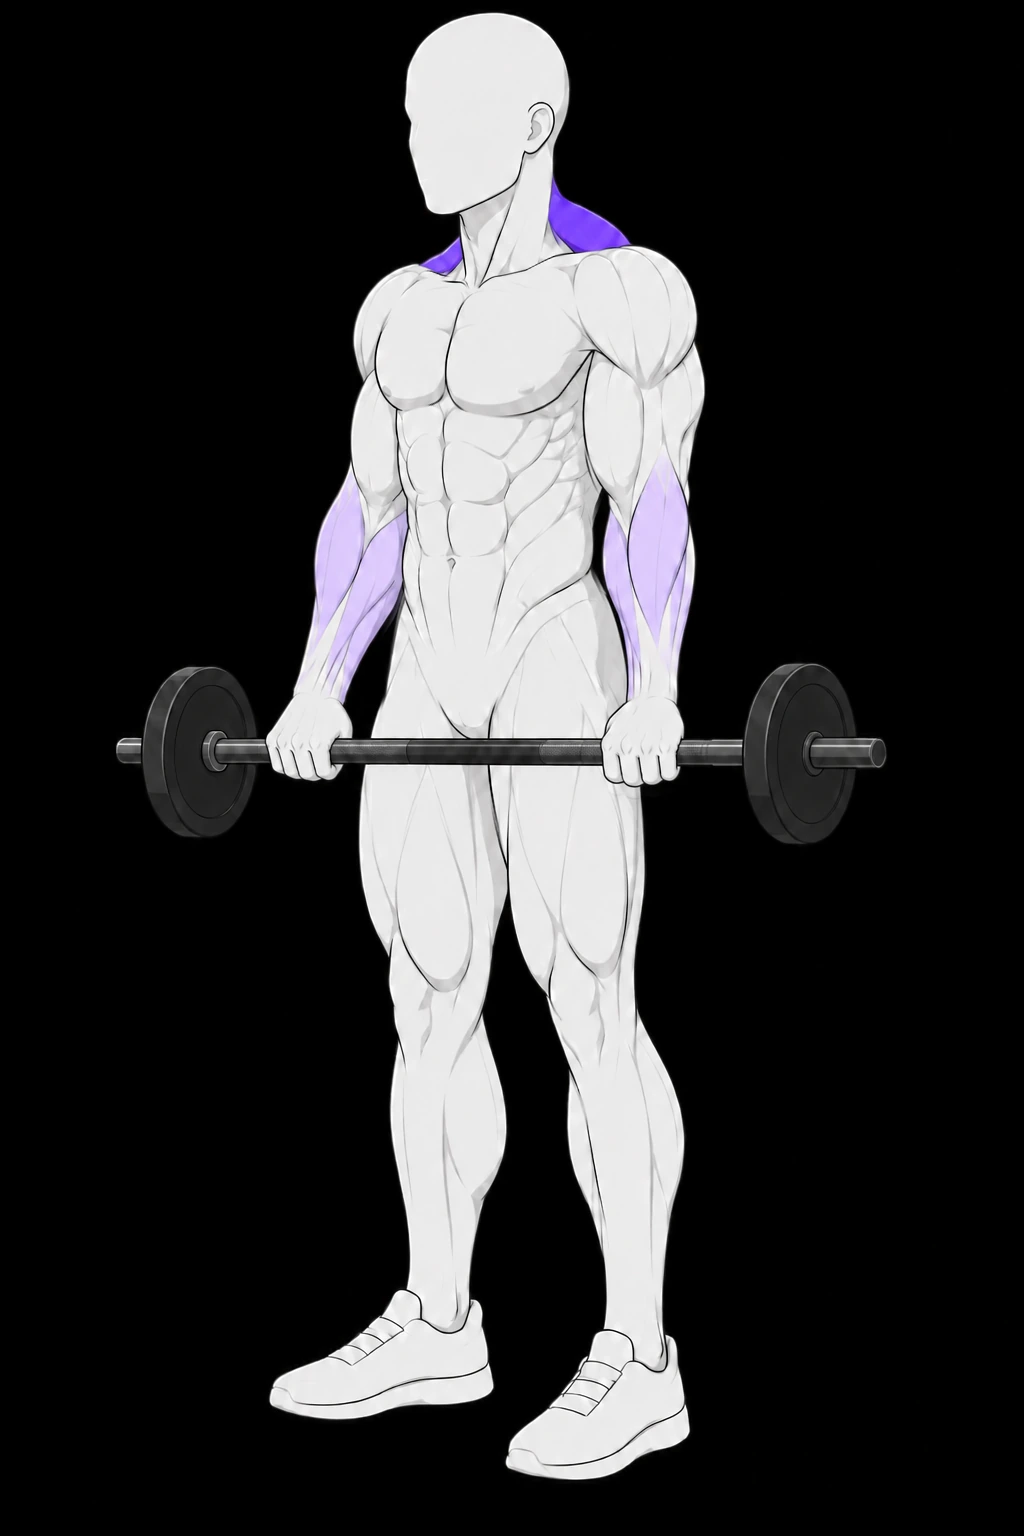
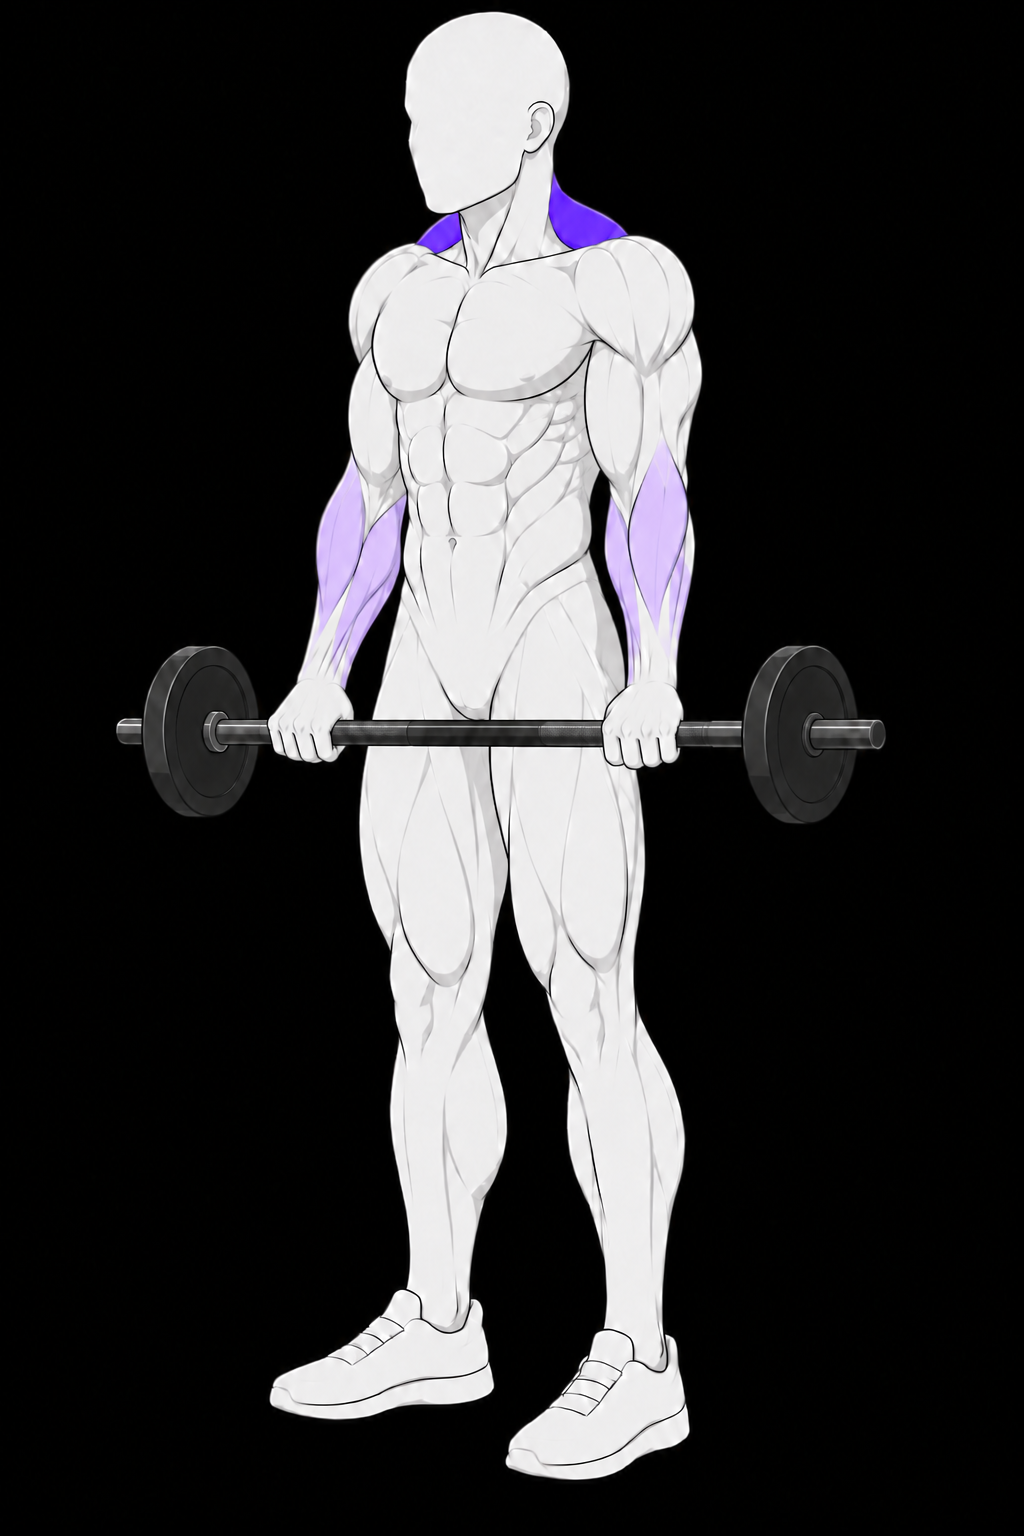
Release corrected and reviewed six-frame barbell shrug (#2522)

diff --git a/src/lib/releasedFormPlacards.ts b/src/lib/releasedFormPlacards.ts
@@ -270,33 +270,5 @@ export const RELEASED_FORM_PLACARDS = {
       [0, "Reset", "Stand tall without leaning backward."],
     ]
   ),
-  "barbell-shrug": placard(
-    "barbell-shrug",
-    ["upper trapezius"],
-    ["forearm gripping muscles"],
-    [
-      [0, "Start", "Stand tall with arms straight."],
-      [
-        0.3333333333333333,
-        "Begin shrug",
-        "Lift shoulders without bending elbows.",
-      ],
-      [
-        0.6666666666666666,
-        "Continue lift",
-        "Raise shoulders straight up; avoid rolling.",
-      ],
-      [1, "Top", "Hold briefly with your neck neutral."],
-      [
-        0.6666666666666666,
-        "Lower",
-        "Lower shoulders slowly with straight arms.",
-      ],
-      [
-        0.3333333333333333,
-        "Finish lowering",
-        "Finish lowering without rocking your torso.",
-      ],
-    ]
-  ),
+  "barbell-shrug": placard("barbell-shrug", ["upper trapezius"], ["forearm gripping muscles"], [[0,"Set","Stand tall with arms straight."],[0.5,"Lift","Lift shoulders straight toward your ears."],[1,"Top","Keep elbows straight and neck neutral."],[1,"Hold","Hold briefly without rolling your shoulders."],[0.5,"Lower","Lower your shoulders slowly with control."],[0,"Reset","Return shoulders fully, keeping feet planted."]]),
 };

diff --git a/src/lib/__tests__/formArtOwnerRelease.test.ts b/src/lib/__tests__/formArtOwnerRelease.test.ts
@@ -6,7 +6,7 @@ import { getFormBeats } from "../bodyRig";
 import { validateOwnerArtworkRelease } from "../formArtOwnerRelease";
 import { validateArtworkReview } from "../formArtReview";
 
-const ids = ["goblet-squat", "squat", "barbell-curl", "barbell-shrug"];
+const ids = ["goblet-squat", "squat", "barbell-curl"];
 const sha = (bytes: string | Buffer) =>
   createHash("sha256").update(bytes).digest("hex");
 function evidence(id: string) {
@@ -47,7 +47,7 @@ describe("owner-authorized artwork activation", () => {
      I/O, and raising it further would be treating the symptom. If this
      starts failing regularly rather than occasionally, the thing to
      look at is suite concurrency, not this number. */
-  it("ships exactly four owner-authorized guides bound to source, delivered assets and cues", () => {
+  it("ships exactly three owner-authorized guides bound to source, delivered assets and cues", () => {
     expect(
       Object.keys(FORM_ARTWORK)
         .filter(
@@ -81,6 +81,7 @@ describe("owner-authorized artwork activation", () => {
       "front-raise",
       "push-ups",
       "db-bench",
+      "barbell-shrug",
     ]) {
       expect(getReleasedFormArtwork(id)?.status, id).toBe("approved");
       const { review, expected } = evidence(id);

diff --git a/src/lib/formArtwork.ts b/src/lib/formArtwork.ts
@@ -199,7 +199,7 @@ export const FORM_ARTWORK: Record<string, FormArtwork> = {
     reference: "form-frames/bodyweight-squat/1.webp",
     reviewFile: "docs/exercise-art/releases/2026-09-29/bodyweight-squat.json",
   },
-  "barbell-shrug": ownerReleased("barbell-shrug", 1024, 1536),
+  "barbell-shrug": { version: "anatomy-v3-2026-09-29", status: "approved", width: 1024, height: 1536, frames: Array.from({length:6}, (_,i) => `form-frames/barbell-shrug/${i+1}.webp`), reference: "form-frames/barbell-shrug/1.webp", reviewFile: "docs/exercise-art/releases/2026-09-29/barbell-shrug.json" },
   "barbell-row": existing("barbell-row", 1000, 1701),
   "bench-press": existing("bench-press", 1000, 823),
   dips: existing("dips", 1000, 1413),

diff --git a/src/lib/formArtCutouts.data.ts b/src/lib/formArtCutouts.data.ts
@@ -64,8 +64,8 @@ export const FORM_ART_CUTOUTS: Record<string, FormArtCutout> = {
     keyed: true,
     source: "form-frames/barbell-shrug/1.webp",
     sourceSha256:
[4 lines of base64/hex data omitted]
   },
   "barbell-upright-row": {
     src: "form-art/barbell-upright-row.webp",
